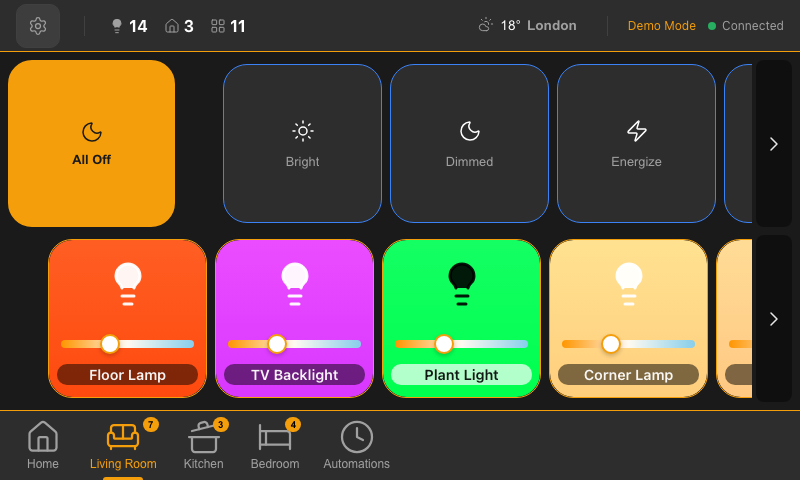
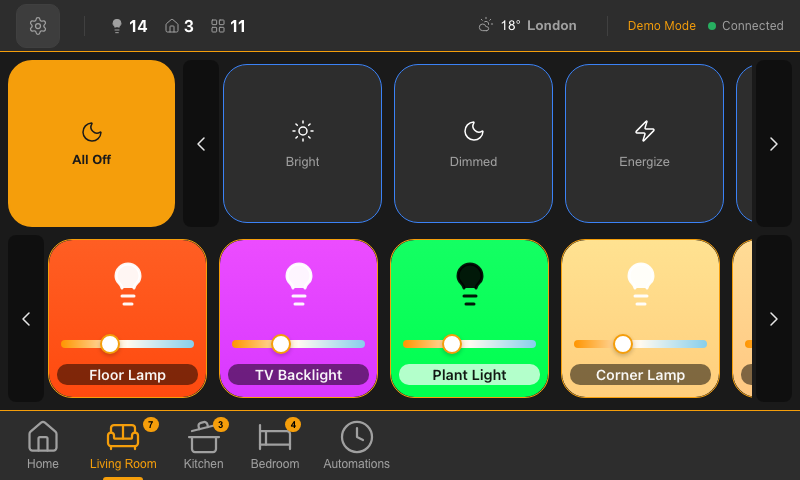
Fix carousel chevrons visibility and tile spacing
- Make disabled chevrons visible at 30% opacity (was hidden at 0%)
- Increase gap between carousel tiles from 8px to 12px
- Add padding around carousel content

🤖 Generated with [Claude Code](https://claude.com/claude-code)

diff --git a/frontend/src/App.css b/frontend/src/App.css
@@ -1911,7 +1911,7 @@ body.dark-theme {
 /* Scrollable carousel area */
 .tiles-carousel {
   display: flex;
-  gap: 8px;
+  gap: 12px;
   overflow-x: auto;
   overflow-y: hidden;
   scroll-snap-type: x mandatory;
@@ -1920,7 +1920,7 @@ body.dark-theme {
   cursor: grab;
   flex: 1 1 0;
   min-width: 0;
-  padding: 4px 0;
+  padding: 4px;
   touch-action: pan-x;
 }
 
@@ -1964,7 +1964,7 @@ body.dark-theme {
 }
 
 .carousel-btn:disabled {
-  opacity: 0;
+  opacity: 0.3;
   pointer-events: none;
 }
 
